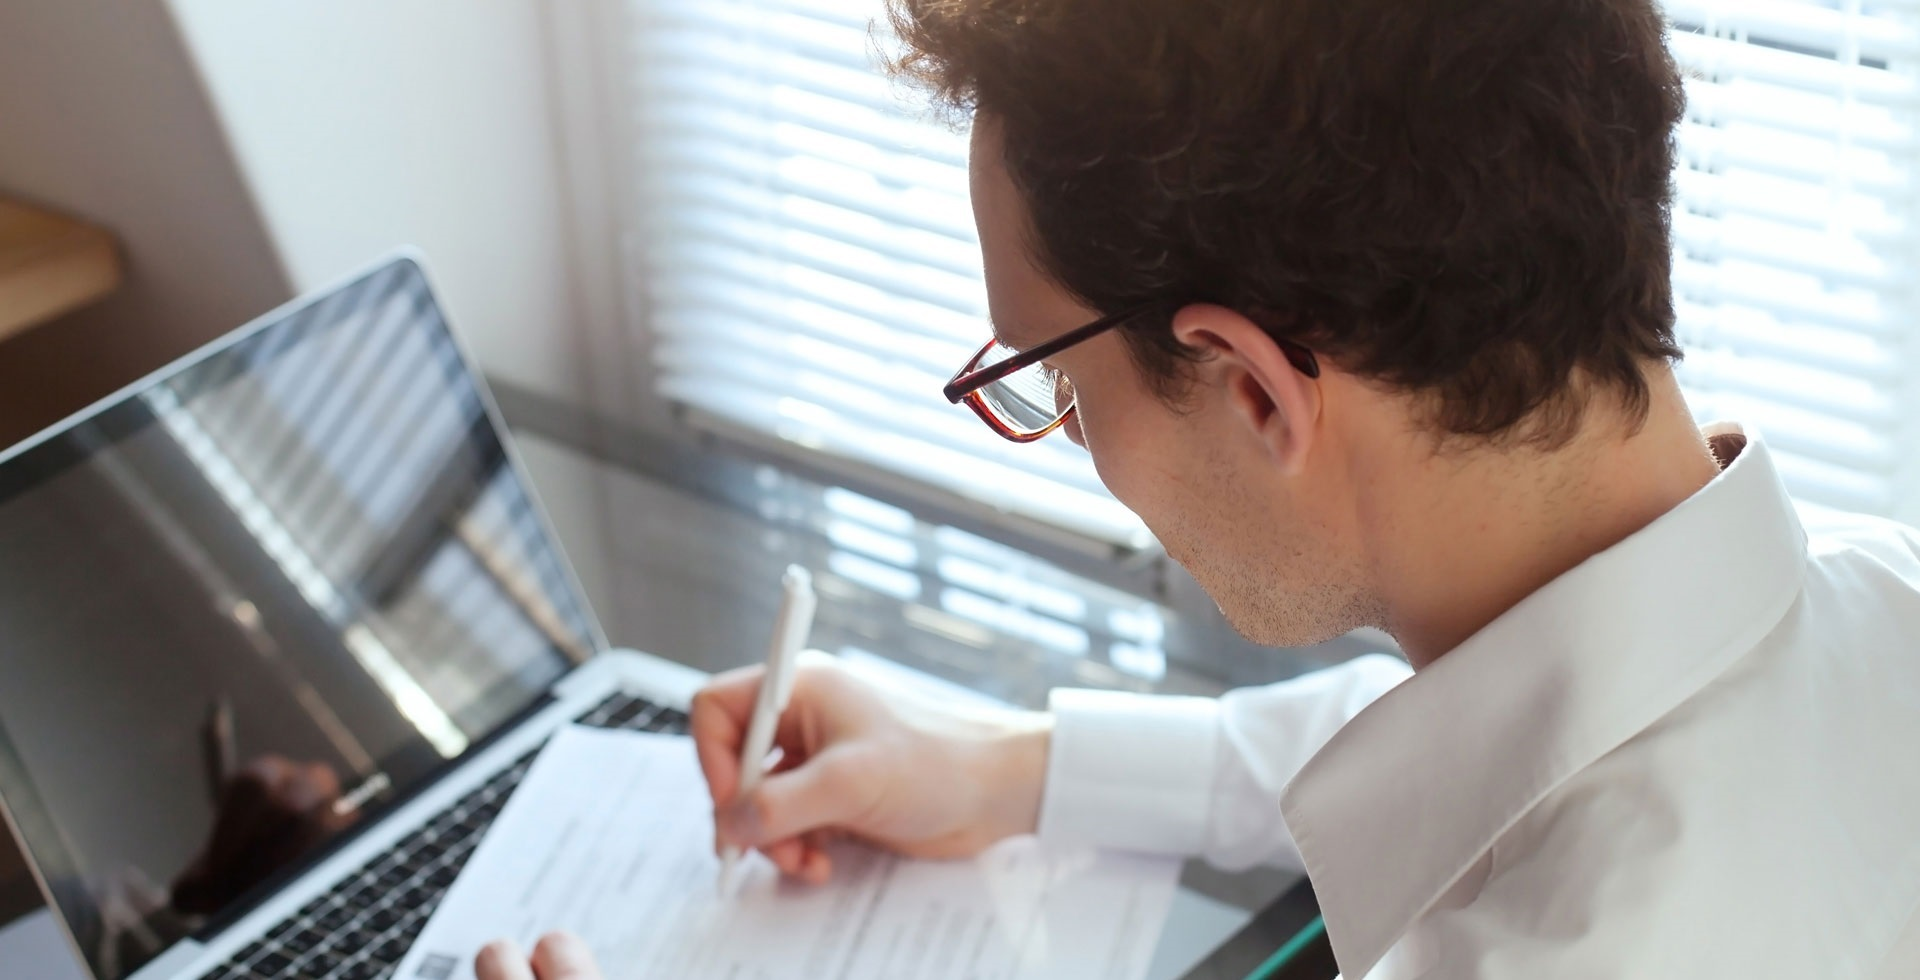
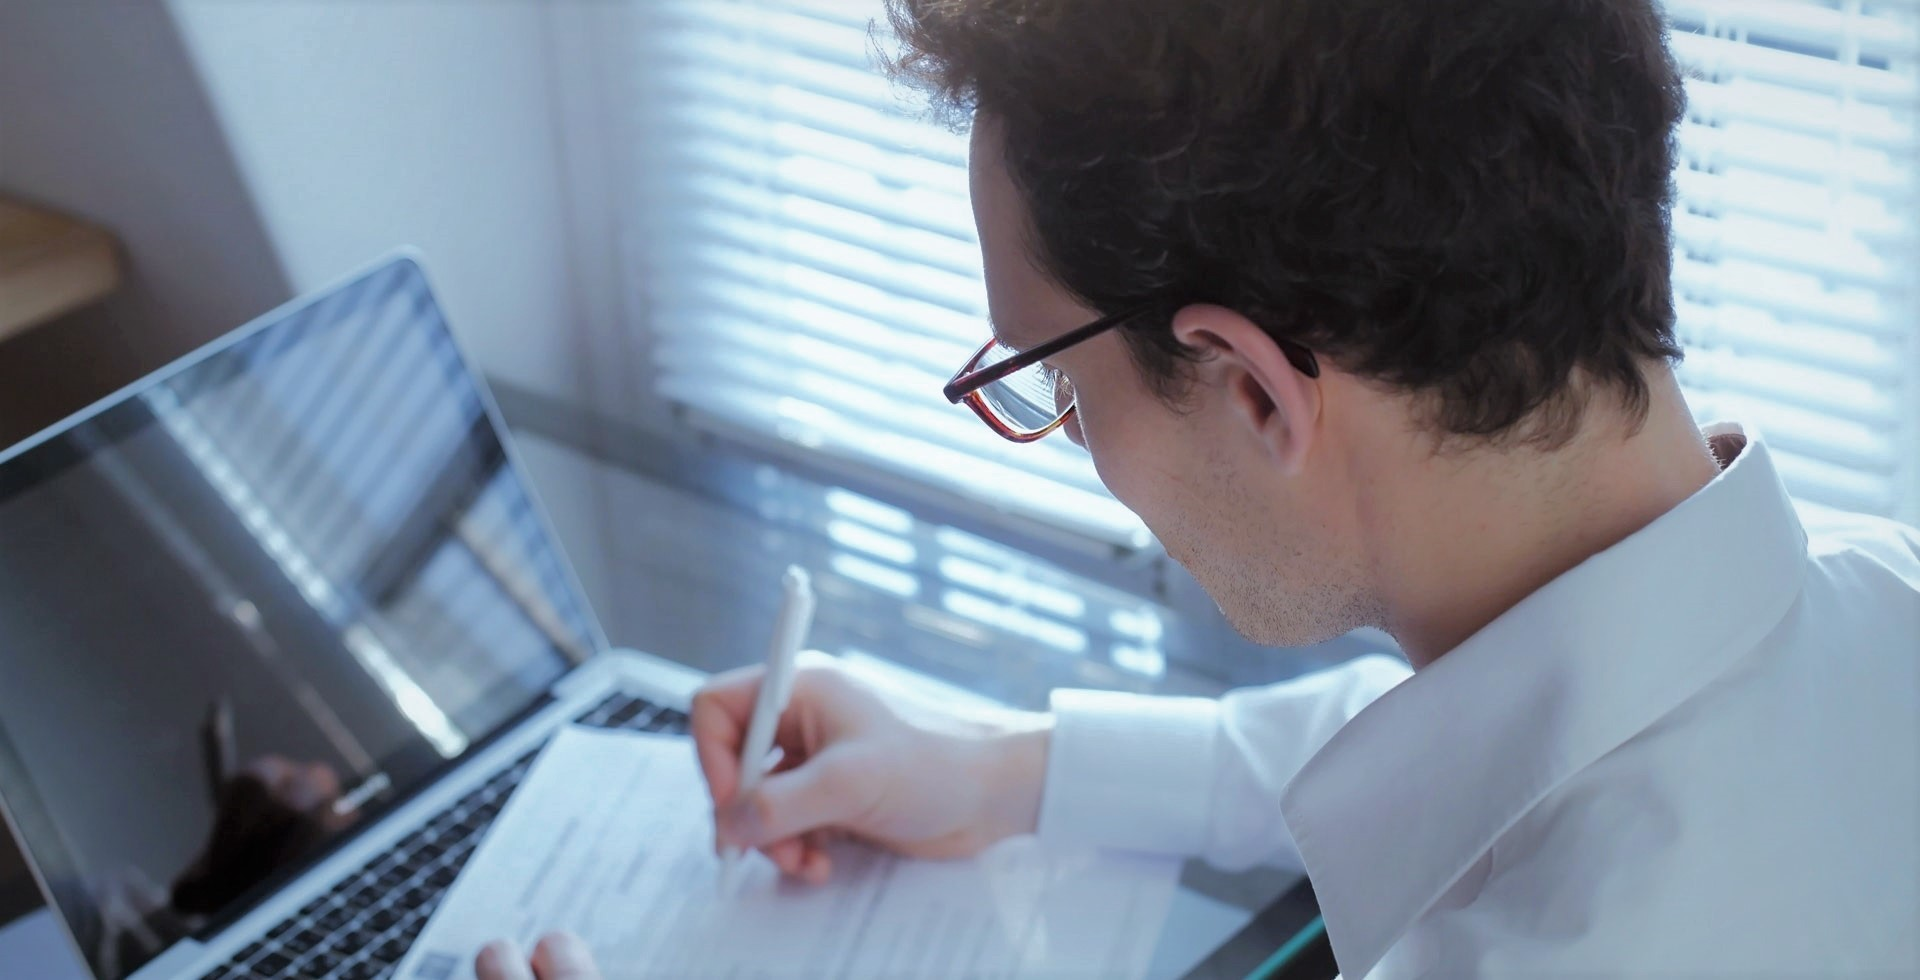
imagenes de inicio

diff --git a/frontend/css/style.css b/frontend/css/style.css
@@ -115,6 +115,7 @@ a:active {
   -moz-background-size: cover;
   -o-background-size: cover;
   background-size: cover;
+  background-attachment: fixed;
   height: 100%;
 }
 .imageny {
@@ -413,6 +414,7 @@ a.menu_link:hover {
   width: 144px !important;
   padding-left: 8px;
   padding-right: 8px;
+  margin-right: 0.5em;
 }
 .segundo_buscar {
   visibility: hidden;

diff --git a/index.php b/index.php
@@ -9,9 +9,9 @@ include("includes/header.php");
 ?>
 
 <div class="" >
-	<div id="carouselExampleIndicators" class="carousel slide mb-3" data-ride="carousel">
+	<div id="carouselExampleIndicators" class="carousel slide mb-3 carousel-fade" data-ride="carousel">
 		<ul class="carousel-indicators">
-			<li data-target="#carouselExampleIndicators" data-slide-to="0" class="active"></li>
+			<li data-target="#carouselExampleIndicators" data-slide-to="0" class="active "></li>
 			<li data-target="#carouselExampleIndicators" data-slide-to="1"></li>
 			<li data-target="#carouselExampleIndicators" data-slide-to="2"></li>
 		</ul>
